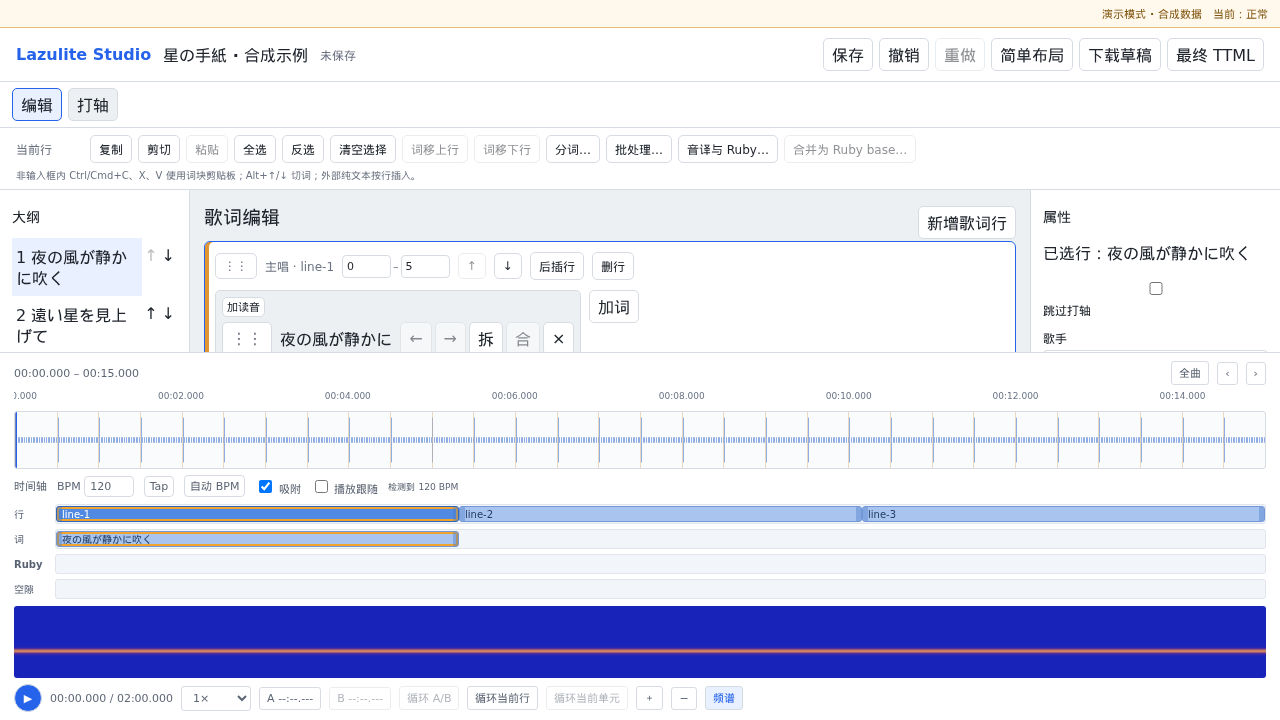
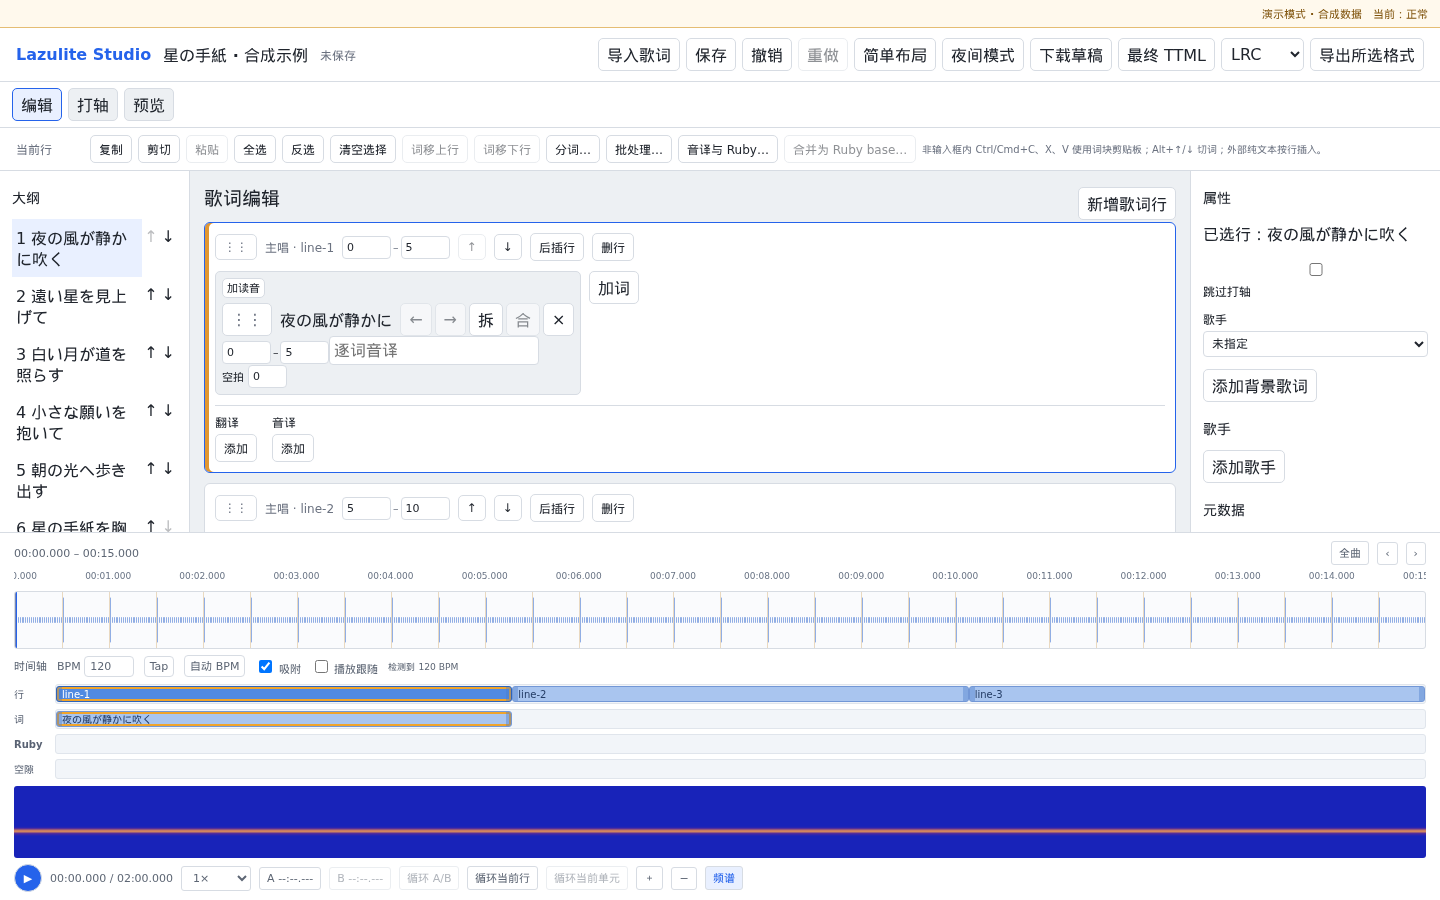
完善跨行时间轴与长媒体导航

diff --git a/frontend/src/features/TimelineTracks.tsx b/frontend/src/features/TimelineTracks.tsx
@@ -12,6 +12,7 @@ const timed = (begin: number | null, end: number | null): begin is number => beg
 export function TimelineTracks({ document, selectedLineId, startUs, endUs, positionUs, bpm, snap, apply, onSelectLine, onError }: Props) {
   const [drag, setDrag] = useState<Drag | null>(null);
   const [selectedWords, setSelectedWords] = useState<string[]>([]);
+  const [selectedLines, setSelectedLines] = useState<string[]>([]);
   const dragRef = useRef<Drag | null>(null);
   const spanUs = Math.max(1, endUs - startUs);
   const line = document.lines.find((item) => item.id === selectedLineId && !item.backgroundOf) ?? document.lines.find((item) => !item.backgroundOf);
@@ -35,6 +36,14 @@ export function TimelineTracks({ document, selectedLineId, startUs, endUs, posit
   const pct = (timeUs: number) => `${((timeUs - startUs) / spanUs) * 100}%`;
   const begin = (event: PointerEvent<HTMLElement>, target: TimelineTarget | null, side: Drag['side'], originalUs: number) => {
     event.preventDefault(); event.stopPropagation();
+    if (target?.kind === 'line' && (event.shiftKey || event.ctrlKey || event.metaKey)) {
+      const ids = document.lines.filter((item) => !item.backgroundOf).map((item) => item.id);
+      const candidate = selectedLines.at(-1) ?? selectedLineId;
+      const anchor = candidate && ids.includes(candidate) ? candidate : target.lineId;
+      const first = ids.indexOf(anchor), last = ids.indexOf(target.lineId);
+      setSelectedLines(event.shiftKey ? ids.slice(Math.min(first, last), Math.max(first, last) + 1) : selectedLines.includes(target.lineId) ? selectedLines.filter((id) => id !== target.lineId) : [...selectedLines, target.lineId]);
+      return;
+    }
     const lane = event.currentTarget.closest('[data-track-lane]') as HTMLElement;
     const next = { target, side, x: event.clientX, current: event.clientX, width: lane.getBoundingClientRect().width, originalUs };
     event.currentTarget.setPointerCapture(event.pointerId);
@@ -56,7 +65,7 @@ export function TimelineTracks({ document, selectedLineId, startUs, endUs, posit
       return;
     }
     if (!current.target || Math.abs(current.current - current.x) < 3) {
-      if (current.target?.kind === 'line') onSelectLine(current.target.lineId);
+      if (current.target?.kind === 'line') { setSelectedLines([current.target.lineId]); onSelectLine(current.target.lineId); }
       else if (current.target?.kind === 'word') setSelectedWords([current.target.wordId]);
       return;
     }
@@ -65,7 +74,7 @@ export function TimelineTracks({ document, selectedLineId, startUs, endUs, posit
     const timeUs = snap ? snapTime(proposed, anchors.filter((value) => value !== current.originalUs), spanUs * 8 / current.width) : proposed;
     try {
       const changed = current.side === 'move'
-        ? moveTimeline(document, target.kind === 'word' && selectedWords.includes(target.wordId) ? selectedWords.map((wordId) => ({ kind: 'word' as const, lineId: target.lineId, wordId })) : [target], timeUs - current.originalUs)
+        ? moveTimeline(document, target.kind === 'word' && selectedWords.includes(target.wordId) ? selectedWords.map((wordId) => ({ kind: 'word' as const, lineId: target.lineId, wordId })) : target.kind === 'line' && selectedLines.includes(target.lineId) ? selectedLines.map((lineId) => ({ kind: 'line' as const, lineId })) : [target], timeUs - current.originalUs)
         : resizeTimeline(document, target, current.side, timeUs);
       apply({ type: 'replace-document', document: changed }); onError('');
     } catch (cause) { onError(cause instanceof Error ? cause.message : '时间轴编辑失败'); }
@@ -93,7 +102,7 @@ export function TimelineTracks({ document, selectedLineId, startUs, endUs, posit
     } catch (cause) { onError(cause instanceof Error ? cause.message : '无法闭合空隙'); }
   };
   return <div className={styles.tracks} aria-label="可编辑时间轴">
-    {row('行', overview.map((item) => bar({ kind: 'line', lineId: item.id }, `时间轴行 ${item.id}`, item.beginUs!, item.endUs!, item.id === line?.id)))}
+    {row('行', overview.map((item) => bar({ kind: 'line', lineId: item.id }, `时间轴行 ${item.id}`, item.beginUs!, item.endUs!, selectedLines.includes(item.id) || item.id === line?.id)))}
     {line && row('词', words.map((word) => bar({ kind: 'word', lineId: line.id, wordId: word.id }, `时间轴词 ${word.text}`, word.beginUs!, word.endUs!, selectedWords.includes(word.id))), true)}
     {line && row('Ruby', rubies.map(({ word, unit }) => bar({ kind: 'ruby', lineId: line.id, wordId: word.id, rubyId: unit.id }, `时间轴Ruby ${unit.reading}`, unit.beginUs!, unit.endUs!)))}
     {line && row('空隙', gaps.map(({ left, right, beginUs, endUs, overlap }) => <button key={`${left.id}:${right.id}`} className={`${styles.gapBar} ${overlap ? styles.overlap : ''}`}

diff --git a/frontend/src/features/MediaTransport.tsx b/frontend/src/features/MediaTransport.tsx
@@ -431,8 +431,9 @@ export const MediaTransport = forwardRef<TransportHandle, Props>(function MediaT
   const beatUs = 60_000_000 / bpm;
   const firstBeat = Math.ceil(startUs / beatUs);
   const beatCount = bpm > 0 && endUs > startUs ? Math.max(0, Math.min(500, Math.floor((endUs - firstBeat * beatUs) / beatUs) + 1)) : 0;
-  const tickStep = [0.1, 0.25, 0.5, 1, 2, 5, 10, 15, 30, 60, 120, 300, 600].find((value) => span / value <= 12) ?? 600;
-  const ticks = span > 0 ? Array.from({ length: Math.min(13, Math.floor(end / tickStep) - Math.ceil(start / tickStep) + 1) }, (_, index) => (Math.ceil(start / tickStep) + index) * tickStep) : [];
+  const maxTicks = Math.max(2, Math.floor(width / 82));
+  const tickStep = [0.1, 0.25, 0.5, 1, 2, 5, 10, 15, 30, 60, 120, 300, 600].find((value) => span / value <= maxTicks) ?? 600;
+  const ticks = span > 0 ? Array.from({ length: Math.min(maxTicks + 1, Math.max(0, Math.floor(end / tickStep) - Math.ceil(start / tickStep) + 1)) }, (_, index) => (Math.ceil(start / tickStep) + index) * tickStep) : [];
   return (
     <footer className={styles.footer} onKeyDown={keyDown}>
       <audio
@@ -483,7 +484,7 @@ export const MediaTransport = forwardRef<TransportHandle, Props>(function MediaT
           onClick={disabled ? undefined : seekClick}
         />
         <span ref={head} className={styles.head} />
-        {snap && Array.from({ length: beatCount }, (_, index) => <span key={index} className={styles.beatLine} style={{ left: `${((firstBeat + index) * beatUs - startUs) / (endUs - startUs) * 100}%` }} />)}
+        {snap && span <= 30 && Array.from({ length: beatCount }, (_, index) => <span key={index} className={styles.beatLine} style={{ left: `${((firstBeat + index) * beatUs - startUs) / (endUs - startUs) * 100}%` }} />)}
         {bandA != null && bandB != null && bandB > bandA && (
           <span
             className={styles.band}
@@ -496,7 +497,7 @@ export const MediaTransport = forwardRef<TransportHandle, Props>(function MediaT
       </div>
       {document && onTimelineCommand && onSelectLine && <>
         <div className={styles.timelineTools}><strong>时间轴</strong><label>BPM <input type="number" min="30" max="300" value={bpm} onChange={(event) => { const value = Number(event.target.value); if (value >= 30 && value <= 300) setBpm(value); }} /></label>
-          <button onClick={tapBpm}>Tap</button><button disabled={!asset} onClick={() => void autoBpm()}>自动 BPM</button><label><input type="checkbox" checked={snap} onChange={(event) => setSnap(event.target.checked)} /> 吸附</label><label><input type="checkbox" checked={follow} onChange={(event) => setFollow(event.target.checked)} /> 播放跟随</label><small>{bpmStatus || '拖动色块移动；拖边界调整；在词轨空白处拖出选区。空隙可点击闭合。'}</small></div>
+          <button onClick={tapBpm}>Tap</button><button disabled={!asset} onClick={() => void autoBpm()}>自动 BPM</button><label><input type="checkbox" checked={snap} onChange={(event) => setSnap(event.target.checked)} /> 吸附</label><label><input type="checkbox" checked={follow} onChange={(event) => setFollow(event.target.checked)} /> 播放跟随</label><small>{bpmStatus || '拖动色块调整；Shift 点击行块选范围并成组移动；词轨空白可框选。'}</small></div>
         <TimelineTracks document={document} selectedLineId={selectedLineId ?? null} startUs={startUs} endUs={endUs} positionUs={Math.round(position * 1e6)} bpm={bpm} snap={snap}
           apply={onTimelineCommand} onSelectLine={onSelectLine} onError={setError} />
       </>}

diff --git a/frontend/src/adapters/http/generated.ts b/frontend/src/adapters/http/generated.ts
@@ -292,6 +292,22 @@ export interface paths {
         patch?: never;
         trace?: never;
     };
+    "/projects/{projectId}/pcm": {
+        parameters: {
+            query?: never;
+            header?: never;
+            path?: never;
+            cookie?: never;
+        };
+        get: operations["getPcmWindow"];
+        put?: never;
+        post?: never;
+        delete?: never;
+        options?: never;
+        head?: never;
+        patch?: never;
+        trace?: never;
+    };
     "/projects/{projectId}/publish": {
         parameters: {
             query?: never;
@@ -1362,6 +1378,35 @@ export interface operations {
                 };
                 content: {
                     "application/json": components["schemas"]["WaveformWindow"];
+                };
+            };
+            default: components["responses"]["Error"];
+        };
+    };
+    getPcmWindow: {
+        parameters: {
+            query: {
+                start_us: number;
+                /** @description Exclusive end, at most 4 seconds after start_us */
+                end_us: number;
+            };
+            header?: never;
+            path: {
+                projectId: components["parameters"]["ProjectId"];
+            };
+            cookie?: never;
+        };
+        requestBody?: never;
+        responses: {
+            /** @description Interleaved 16-bit PCM samples from the playback proxy */
+            200: {
+                headers: {
+                    "X-Sample-Rate"?: number;
+                    "X-Channels"?: number;
+                    [name: string]: unknown;
+                };
+                content: {
+                    "application/octet-stream": string;
                 };
             };
             default: components["responses"]["Error"];

diff --git a/frontend/src/mocks/handlers.ts b/frontend/src/mocks/handlers.ts
@@ -11,7 +11,7 @@ export const handlers = [
   http.get(`${root}/session`, () => scenario() === 'expired' ? error(401, 'session_expired', '登录已过期') : response(session)),
   http.get(`${root}/capabilities`, () => scenario() === 'error' ? error(503, 'service_unavailable', '服务暂不可用', true) : response(capabilities)),
   http.get(`${root}/projects`, () => scenario() === 'error' ? error(503, 'service_unavailable', '服务暂不可用', true) : scenario() === 'empty' ? response({ schema_version: 'studio-project-list-v1', items: [], next_cursor: null }) : response(projects)),
-  http.get(`${root}/projects/:projectId`, ({ params }) => scenario() === 'error' ? error(503, 'service_unavailable', '服务暂不可用', true) : params.projectId === 'sample-project' ? response(sampleProject) : error(404, 'project_not_found', '项目不存在')),
+  http.get(`${root}/projects/:projectId`, ({ params }) => scenario() === 'error' ? error(503, 'service_unavailable', '服务暂不可用', true) : params.projectId === 'sample-project' ? response(scenario() === 'long' ? { ...sampleProject, asset: { ...sampleProject.asset, duration_us: 1_800_000_000 } } : sampleProject) : error(404, 'project_not_found', '项目不存在')),
   http.get(`${root}/projects/:projectId/jobs`, ({ params }) => scenario() === 'error' ? error(503, 'service_unavailable', '服务暂不可用', true) : params.projectId === 'sample-project' ? response(jobs) : error(404, 'project_not_found', '项目不存在')),
   http.get(`${root}/projects/:projectId/exports`, ({ params }) => params.projectId === 'sample-project' ? response(exports) : error(404, 'project_not_found', '项目不存在')),
   http.post(`${root}/projects/:projectId/publish`, async ({ params, request }) => {

diff --git a/docs/editor-e6-acceptance.md b/docs/editor-e6-acceptance.md
@@ -4,7 +4,7 @@
 
 ## 操作与证据
 
-- 波形下方显示行、当前行的词/Ruby、空隙和重叠轨道；拖动色块平移，拖两侧改变边界。行平移带着子时间和背景行，Ruby 调整同步父词包络。词轨空白拖动选择范围，已选词可成组移动；单次拖动只提交一个撤销事务，取消拖动不提交。空隙/重叠可点击闭合。时间标尺、缩放、窗口平移、滚轮平移、Ctrl/⌘ 滚轮缩放和播放跟随可用于定位。
+- 波形下方显示行、当前行的词/Ruby、空隙和重叠轨道；拖动色块平移，拖两侧改变边界。行平移带着子时间和背景行，Ruby 调整同步父词包络。Shift 点击可选择跨行范围成组移动；词轨空白拖动选择范围，已选词可成组移动。单次拖动只提交一个撤销事务，取消拖动不提交。空隙/重叠可点击闭合。时间标尺、缩放、窗口平移、滚轮平移、Ctrl/⌘ 滚轮缩放和播放跟随可用于定位。
 - 节拍支持手动输入、Tap、从前 20 秒峰值自动估计、节拍线和可开关吸附。频谱只在不超过 20 秒的视窗请求 4 秒 PCM 片段，交由 Worker 计算并缓存；无需扫描整首音频。行、词、Ruby 轨道根据同一播放器时钟标出正在播放的块。
 - [1440px 时间轴与频谱截图](evidence/editor-e6/studio-timeline-spectrum-1440.png)来自项目浏览器页面；合成音频和演示 PCM 分别驱动播放器与频谱。浏览器测试验证 120 BPM 检测、频谱片段加载和词拖动后一次撤销。
 
@@ -20,5 +20,5 @@
 
 ## 尚未覆盖
 
-- 目前只有同一行内的词可通过轨道框选后成组平移；跨行范围可用 E3 批量偏移面板处理。节拍估计以波形峰值为输入，对弱鼓点歌曲需手动或 Tap 校正。
-- 长音频按视窗请求波形和频谱，已有 2,000 行/20,000 词虚拟列表测试；没有真实长音频拖动的帧率测量。对齐参考工具的全部轨道细节和真实媒体试听仍需实测。
+- 词轨空白框选只作用于当前行；跨行词可用 E3 批量偏移面板，跨行整行可在时间轴 Shift 选择后成组移动。节拍估计以波形峰值为输入，对弱鼓点歌曲需手动或 Tap 校正。
+- 30 分钟模拟媒体已完成缩放和平移的浏览器操作，2,000 行/20,000 词列表已有虚拟滚动测试；真实长音频拖动帧率和参考工具全部轨道细节尚未量化。

diff --git a/contracts/README.md b/contracts/README.md
@@ -1,6 +1,6 @@
 # Contracts：前后端协议
 
-[openapi.json](openapi.json) 已覆盖会话、能力、项目、上传、文档 GET/PUT、导入、歌词下载、媒体、任务/SSE、读音词典、发布及成品下载。文档接口承载带 revision 的 TTML envelope，不再是 S1 的只读行摘要。
+[openapi.json](openapi.json) 已覆盖会话、能力、项目、上传、文档 GET/PUT、导入、歌词下载、媒体播放、波形和 PCM 片段、任务/SSE、读音词典、发布及成品下载。文档接口承载带 revision 的 TTML envelope，不再是 S1 的只读行摘要。
 
 前端在 `frontend/` 执行：
 
